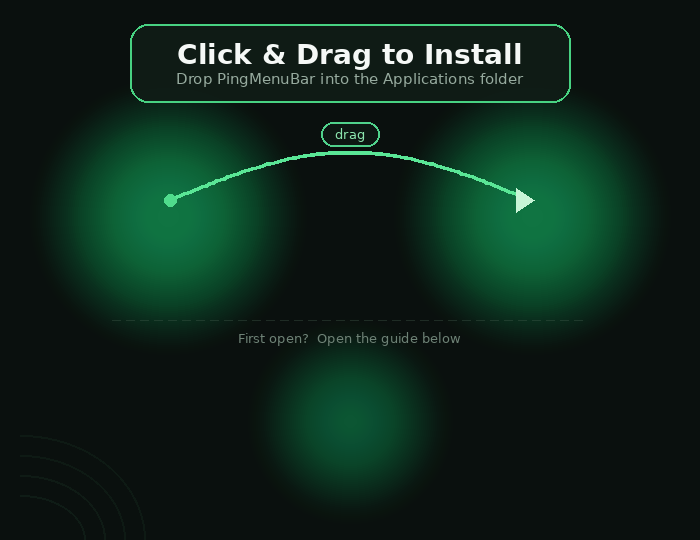
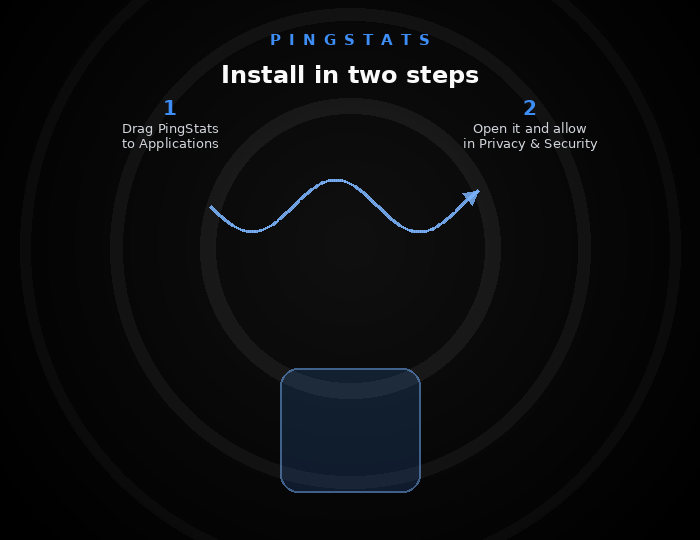
feat(dmg): new wave-arrow background and clickable Privacy & Security shortcut

diff --git a/README.md b/README.md
@@ -46,12 +46,11 @@ Glanceable RTT in your menu bar (macOS) / system tray (Windows) · rolling min/a
 ### DMG (recommended)
 
 1. Download **`PingStats-*.dmg`** from the repo **Releases** page
-2. Open the DMG → open **How to Open** (short guide + link)
-3. Drag **PingStats** onto **Applications**
-4. Open the app once (warning appears — click **Done**)
-5. Use the guide’s **Open Privacy & Security** link (or System Settings → Privacy & Security)
-6. Click **Open Anyway** for PingStats
-7. Later opens work normally; optional: enable **Open at Login** in the popup
+2. Open the DMG → drag **PingStats** onto **Applications**
+3. Open the app once (warning appears — click **Done**)
+4. Double-click **Open Privacy & Security** on the DMG (or System Settings → Privacy & Security)
+5. Click **Open Anyway** for PingStats
+6. Later opens work normally; optional: enable **Open at Login** in the popup
 
 > Releases are **not** Apple-notarized (no Developer ID). On modern macOS the first launch  
 > shows *“Apple could not verify…”* — that system dialog cannot be customized. Allowing the  
@@ -137,7 +136,7 @@ Workflow: [`.github/workflows/release.yml`](.github/workflows/release.yml)
 What you get in the DMG:
 
 - `PingStats.app` (left) + shortcut to **Applications** (right)
-- **How to Open.html** — first-open steps + link into Privacy & Security
+- **Open Privacy & Security** — double-clickable `.webloc` into System Settings
 - Custom Finder background (`assets/dmg-background.png`) via [`create-dmg`](https://github.com/create-dmg/create-dmg)
 
 You can also run the workflow manually (**Actions → Release → Run workflow**) to produce an artifact without a tag.
@@ -190,7 +189,7 @@ pingstats/
 │       └── pingstats-popup-ui.png # Popup UI screenshot
 ├── scripts/
 │   ├── create-dmg.sh               # DMG packager
-│   └── How to Open.html            # First-open guide (staged into DMG)
+│   └── Open Privacy & Security.webloc  # DMG shortcut into System Settings
 ├── CONTRIBUTING.md
 ├── LICENSE
 ├── package.json                    # npm workspace (apps/web)
